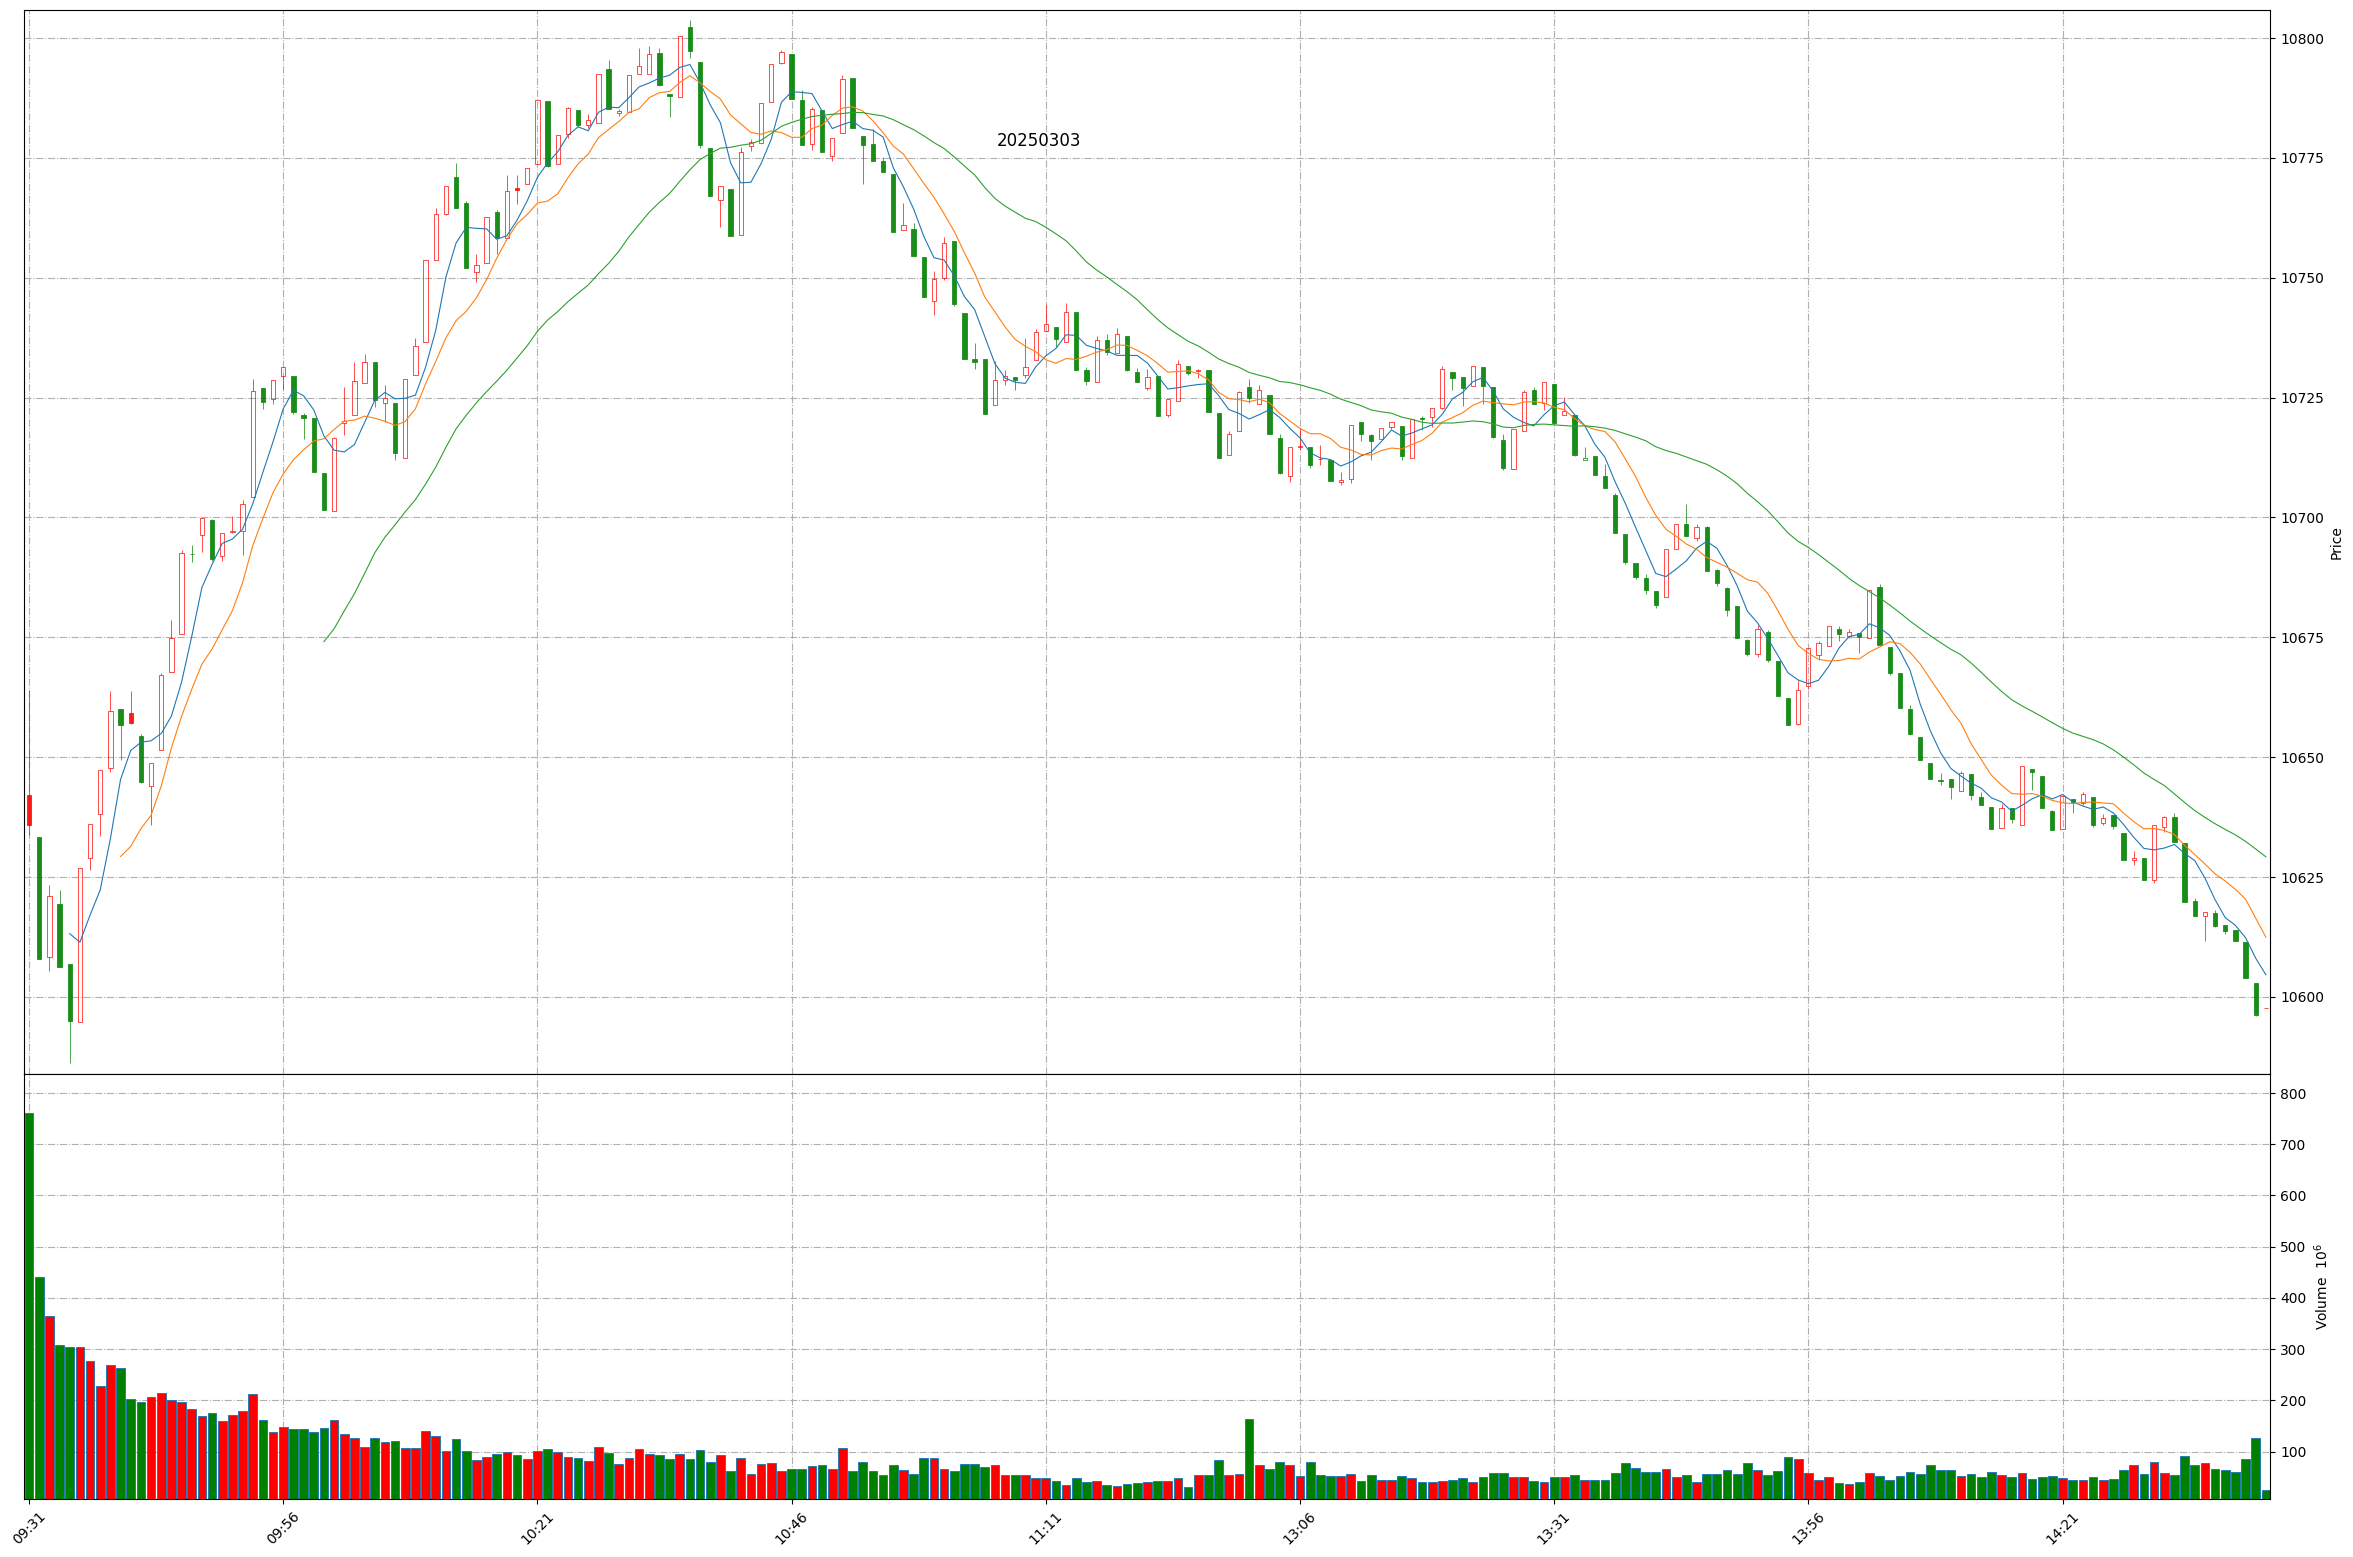
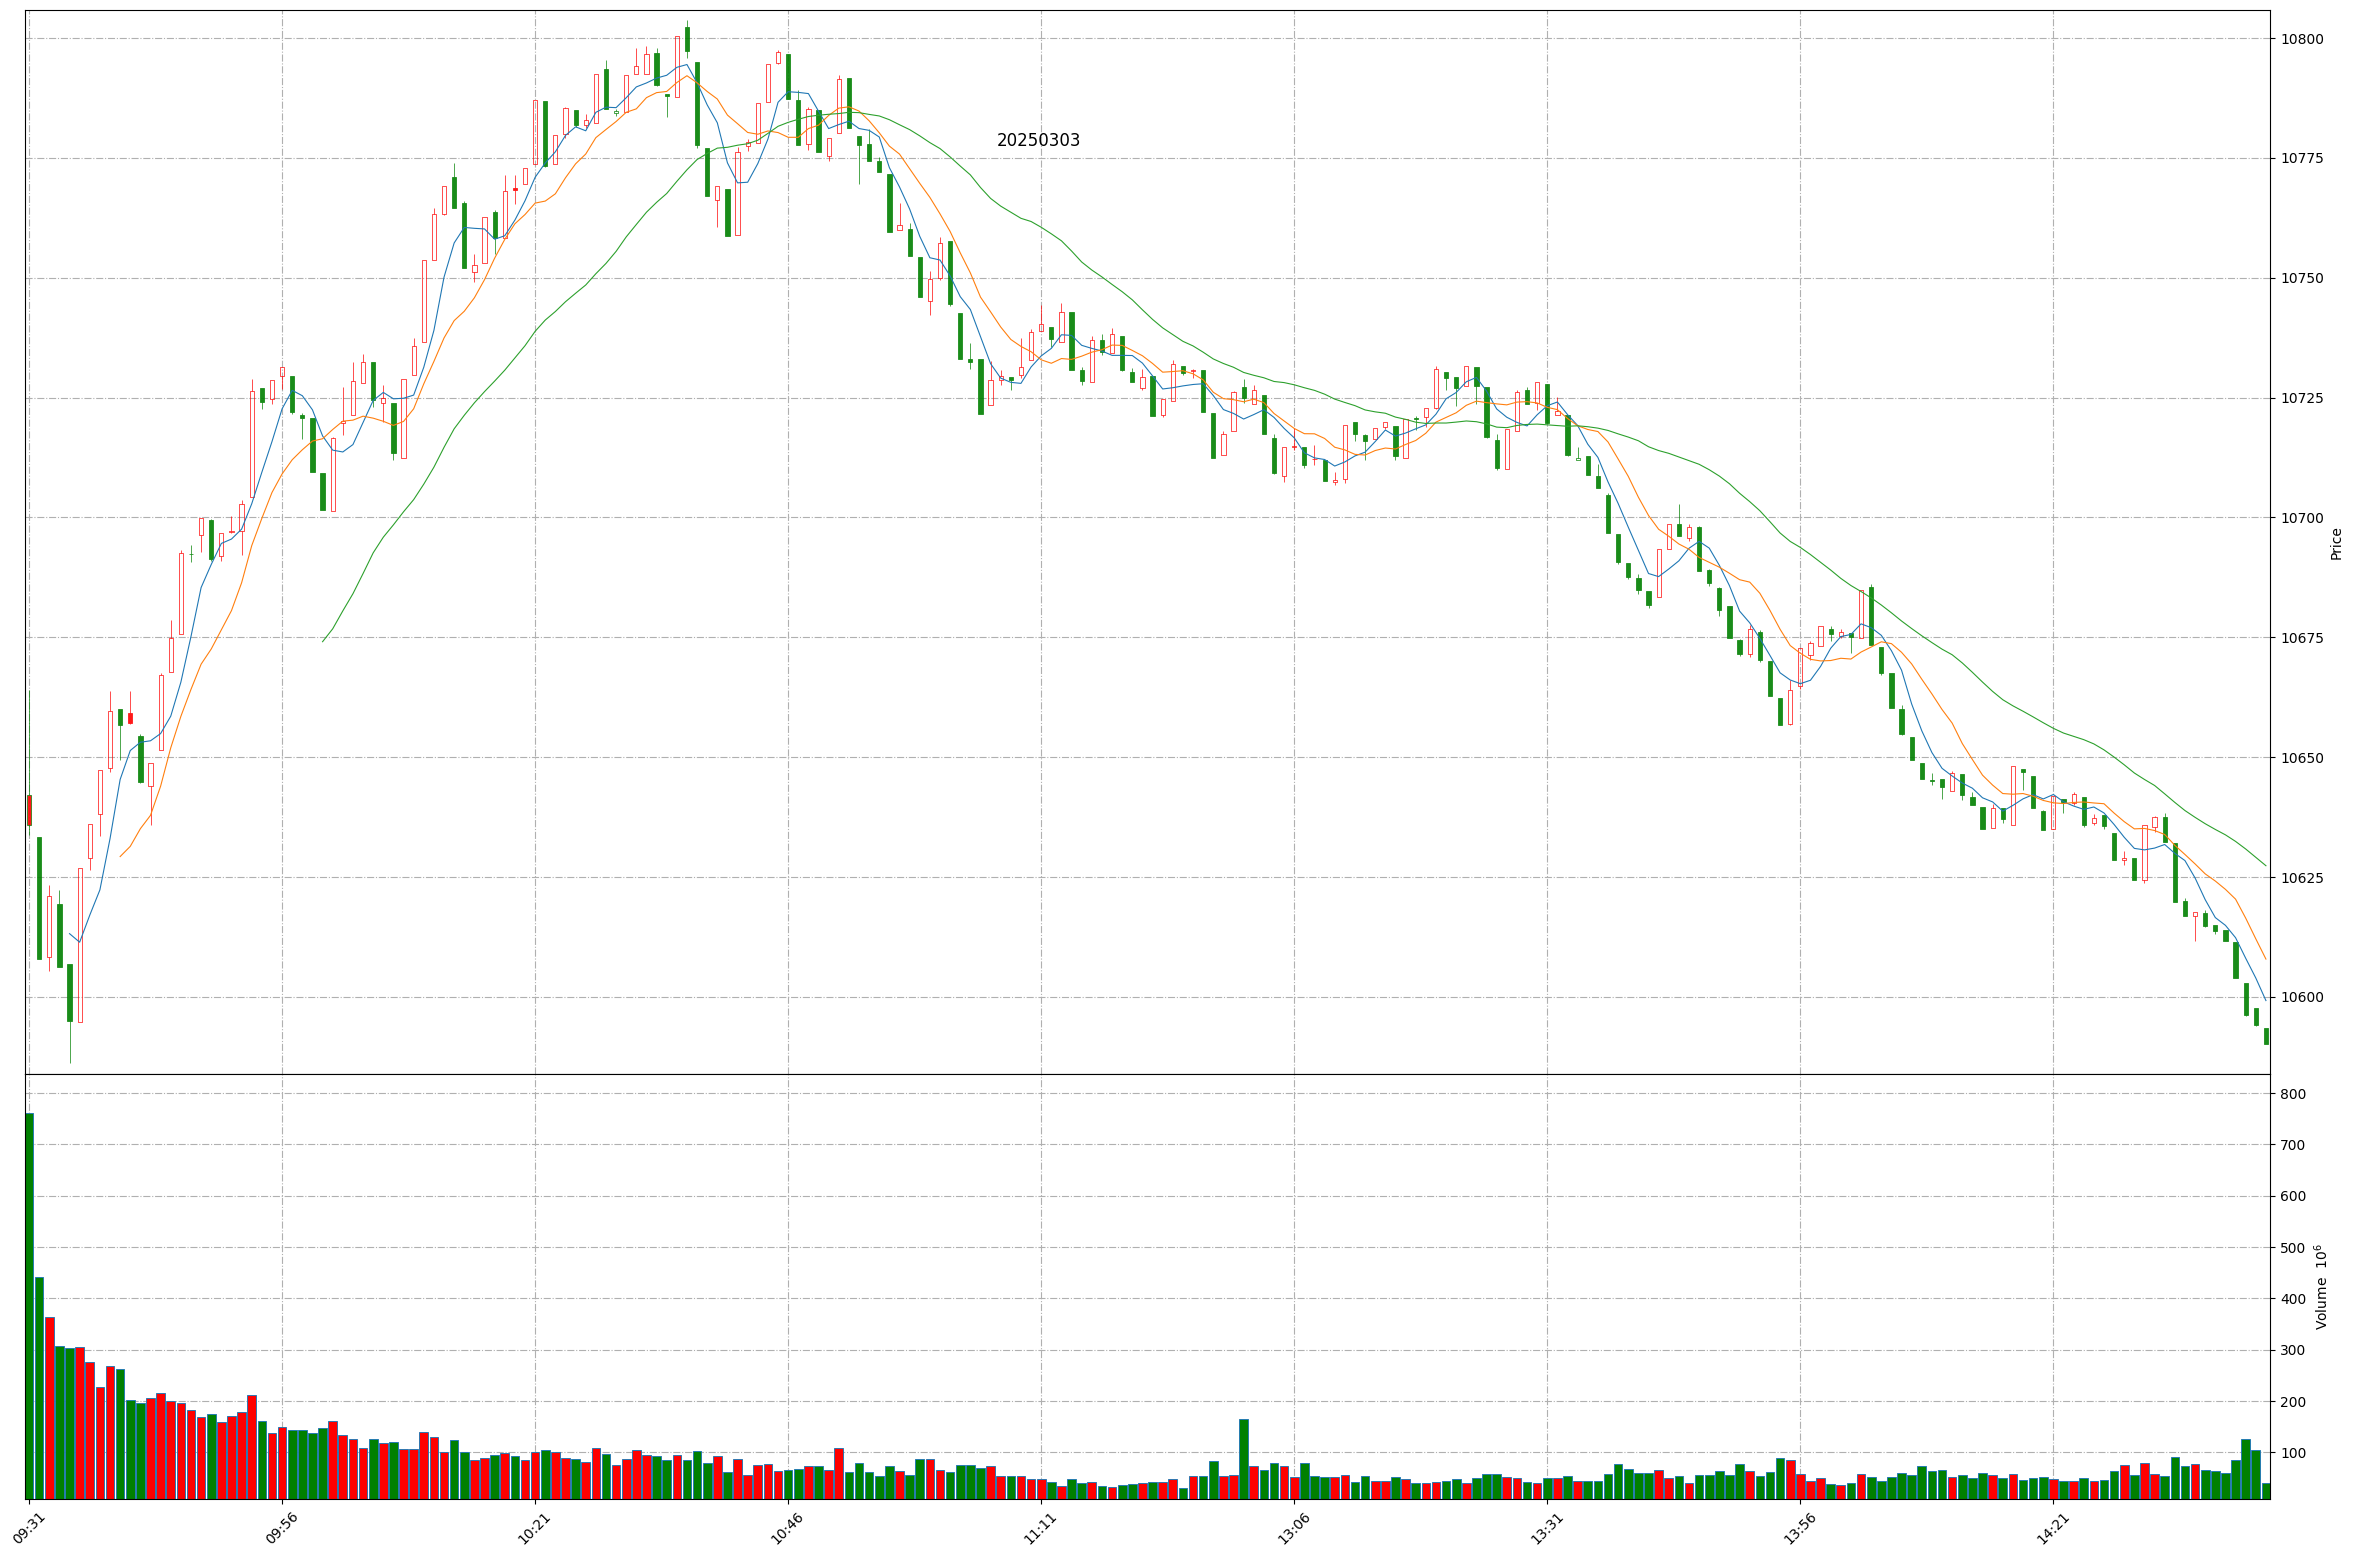
Github action update at 2025-03-03 14:41:34.

Changed region(s): [[0.1861, 0.0308, 0.9618, 0.6474], [0.031, 0.8632, 0.9618, 0.9865], [0.0931, 0.2158, 0.1861, 0.3699]]

diff --git a/README.md b/README.md
@@ -1,11 +1,11 @@
 
 # Daily-A-share-market-quotes 每日 A 股指数（5min 更新）- 20250303
 
-### 上证指数 20250303 14:40
+### 上证指数 20250303 14:41
 ![](./fig/2025/3/20250303-sh000001.png)
 
-### 深证成指 20250303 14:40
+### 深证成指 20250303 14:41
 ![](./fig/2025/3/20250303-sz399001.png)
 
-### 北证50 20250303 14:40
+### 北证50 20250303 14:41
 ![](./fig/2025/3/20250303-bj899050.png)
